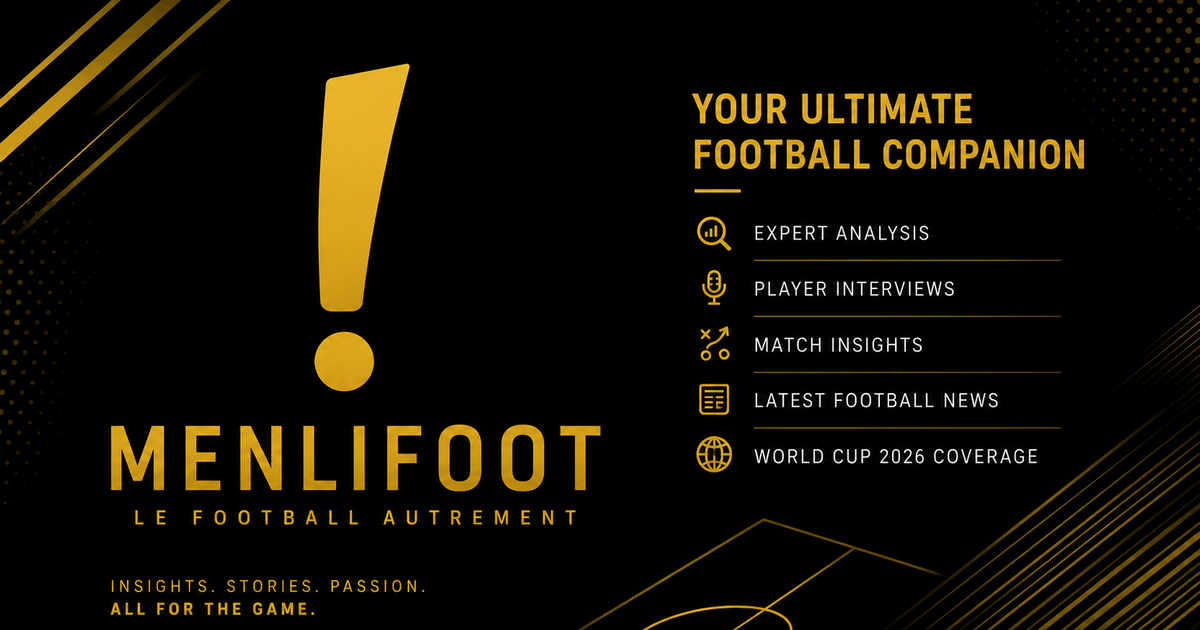
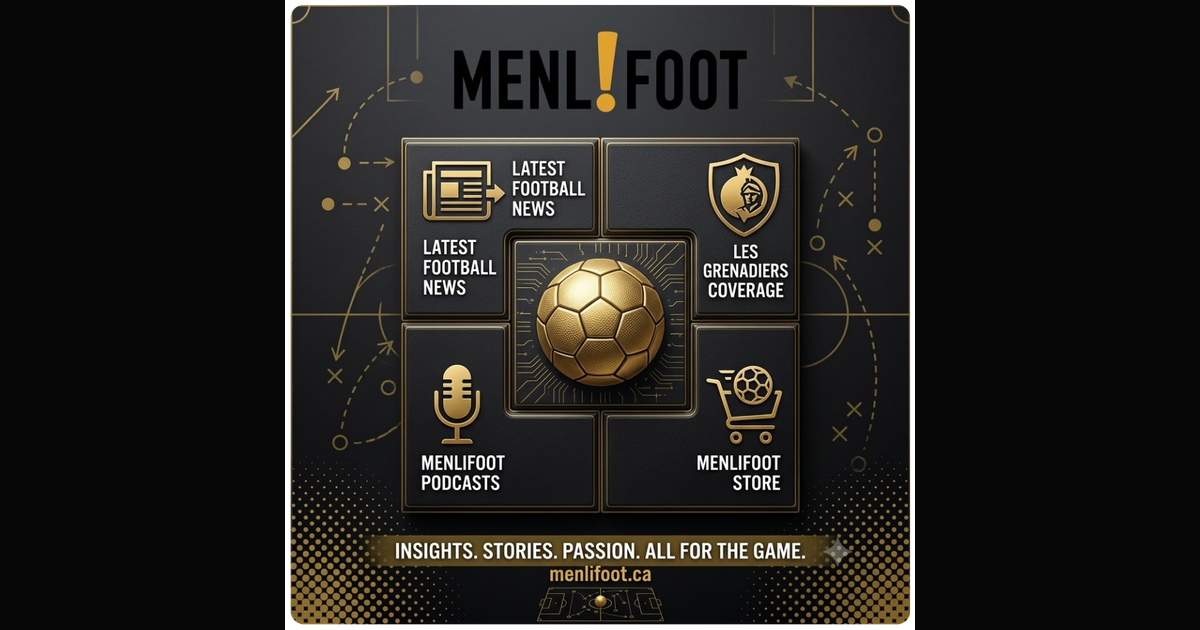
fix(share): regenerate og.png from new brand design + cache-bust

diff --git a/index.html b/index.html
@@ -22,7 +22,7 @@
     
     <meta property="og:url" content="https://menlifoot.ca/" />
     <meta property="og:type" content="website" />
-    <meta property="og:image" content="https://menlifoot-mvp.vercel.app/og.png">
+    <meta property="og:image" content="https://menlifoot-mvp.vercel.app/og.png?v=2">
     <meta property="og:image:width" content="1200" />
     <meta property="og:image:height" content="630" />
     <meta property="og:video" content="https://menlifoot-mvp.vercel.app/intro.mp4" />
@@ -37,7 +37,7 @@
     <meta name="twitter:site" content="@Menlifoot" />
     
     
-    <meta name="twitter:image" content="https://menlifoot-mvp.vercel.app/og.png">
+    <meta name="twitter:image" content="https://menlifoot-mvp.vercel.app/og.png?v=2">
     
     <link rel="canonical" href="https://menlifoot.ca" />
     <meta property="og:title" content="Menlifoot — Le football autrement">
